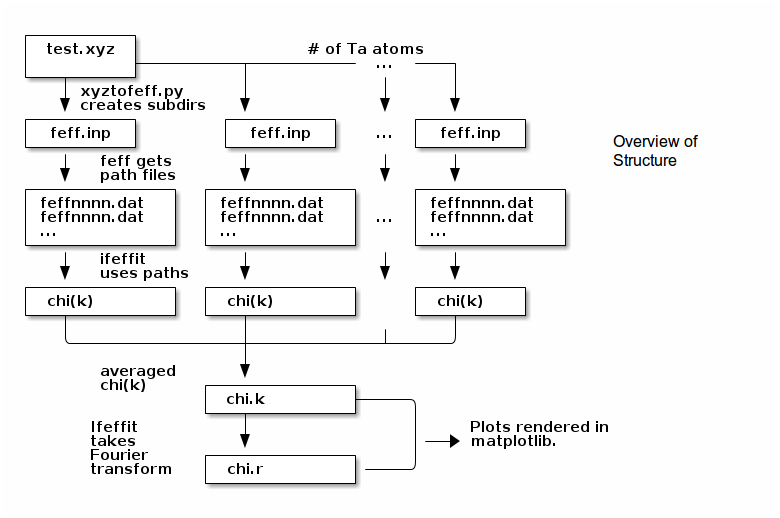
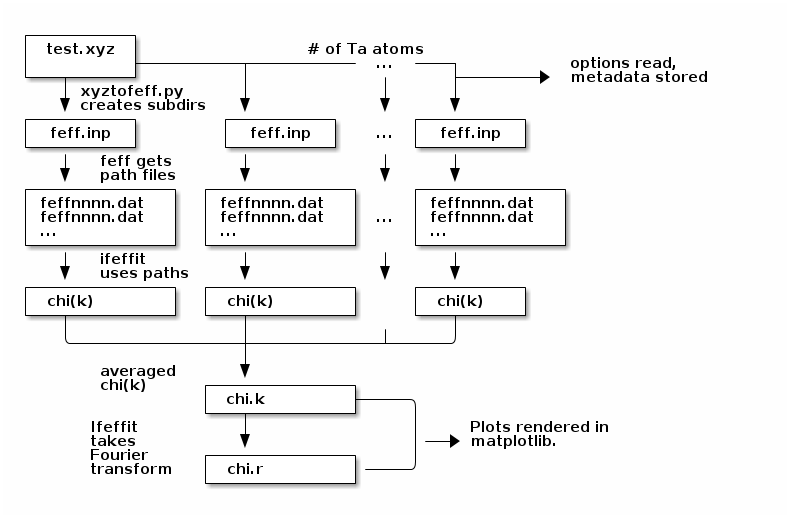
Updated diagrams

diff --git a/README.md b/README.md
@@ -14,6 +14,7 @@ A input file to feff requires designation of a center, absorbing atom, so the .x
 As a Diagram
 -------
 <img src="https://github.com/axlemn/plot-.xyz/blob/master/flow_chart.png">
+Image courtesy of [ditaa](ditaa.sourceforge.net/).  
 
 Summary of each file (in order of usage):
 ==================
@@ -25,7 +26,8 @@ Files used to process\_xyz:
 ---------------
 - run\_script.py manages most spawning of subprocesses.  update\_file(FILENAME) is the main function. 
 - helper.py holds simple, universal functions/constants
-- xyz\_to\_feff.py takes in the path to a .xyz file and some n, and prints a feff.inp file with the nth Ta atom as the absorbing atom (n is zero-indexed).  
+- temp.txt stores metadata, such as center of mass, which atoms are close to the center of mass, etc. 
+- xyz\_to\_feff.py takes in the path to a .xyz file and some n, and prints a feff.inp file with the nth Ta atom as the absorbing atom.  n is zero-indexed.  
 - ifeffit\_script.ps takes a directory name, and uses all feff####.dat produced by feff in the directory to write a file containing chi(k) data.  
 - matplotlib\_script.py averages chi(k) files, and controls what matplotlib will eventually plot.
 - chir.ps converts chi.k files to chi.r files.  Called by the matplotlib\_script.
